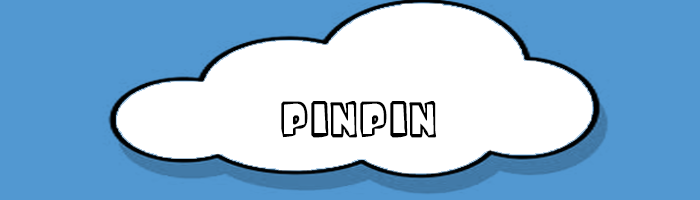
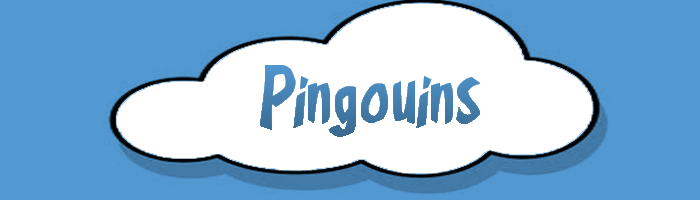
Encadrement choix partie perso, BONUS : couleur en fct du j. Code : ROUMAIN STYLE

Changed region(s): [[0.36, 0.3, 0.69, 0.69]]

diff --git a/trunk/Interface/Graphique/SelectionJoueurs.java b/trunk/Interface/Graphique/SelectionJoueurs.java
@@ -64,33 +64,37 @@ public class SelectionJoueurs{
         names.setVisible(false);
         buttons.setLayout(new GridLayout(0,3));
 	double width =  buttons.getSize().getWidth(), height = buttons.getSize().getHeight();
-	JButton b1 = null;
+	JButton b1;
 	if (this.menu == 1)
-		b1 = new JButton(new ImageIcon("Interface/Graphique/Img/joueurHumain1.png"));
-	else if (this.menu == 2)
-		b1 = new JButton(new ImageIcon("Interface/Graphique/Img/joueurHumain2.png"));
-	else if (this.menu == 3)
-		b1 = new JButton(new ImageIcon("Interface/Graphique/Img/joueurHumain3.png"));
-	else if (this.menu == 4)
-		b1 = new JButton(new ImageIcon("Interface/Graphique/Img/joueurHumain4.png"));		
+		b1 = new JButton(new ImageIcon("Interface/Graphique/Img/selectedHumain1.png"));
+	else
+		b1 = new JButton(new ImageIcon("Interface/Graphique/Img/joueurHumain"+menu+".png"));
 	b1.setBorder(BorderFactory.createEmptyBorder());
 	b1.setContentAreaFilled(false);
 	b1.setOpaque(false);	
         b1.setBorderPainted(false); 
-	JButton b2 = new JButton(new ImageIcon("Interface/Graphique/Img/joueurOrdinateur.png"));
+	JButton b2;
+	if (this.menu == 2)
+		b2 = new JButton(new ImageIcon("Interface/Graphique/Img/selected"+"Ordinateur2.png"));
+	else
+		b2 = new JButton(new ImageIcon("Interface/Graphique/Img/joueurOrdinateur.png"));		
 	b2.setBorder(BorderFactory.createEmptyBorder());
 	b2.setContentAreaFilled(false);
 	b2.setOpaque(false);	
-	JButton b3 = new JButton(new ImageIcon("Interface/Graphique/Img/aucun.png"));
+	JButton b3;
+	if (this.menu == 3 || menu == 4)
+		b3 = new JButton(new ImageIcon("Interface/Graphique/Img/selectedAucun"+menu+".png"));
+	else 
+		b3 = new JButton(new ImageIcon("Interface/Graphique/Img/aucun.png"));
 	b3.setBorder(BorderFactory.createEmptyBorder());
 	b3.setContentAreaFilled(false);
 	b3.setOpaque(false);	
 
         this.partage = new SelectionJoueur(menu, names, diff);
 
-        b1.addActionListener(new EcouteurBoutonMenuPerso(this, partage, 1));
-        b2.addActionListener(new EcouteurBoutonMenuPerso(this, partage, 2));
-        b3.addActionListener(new EcouteurBoutonMenuPerso(this, partage, 3));
+        b1.addActionListener(new EcouteurBoutonMenuPerso(this, partage, 1, b1, b2, b3, menu));
+        b2.addActionListener(new EcouteurBoutonMenuPerso(this, partage, 2, b1, b2, b3, menu));
+        b3.addActionListener(new EcouteurBoutonMenuPerso(this, partage, 3, b1, b2, b3, menu));
 
 	JPanel pan1 = new JPanel();
 	pan1.add(b1,BorderLayout.CENTER);

diff --git a/trunk/Interface/Graphique/EcouteurBoutonMenuPerso.java b/trunk/Interface/Graphique/EcouteurBoutonMenuPerso.java
@@ -10,27 +10,43 @@ import Joueurs.*;
 
 
 public class EcouteurBoutonMenuPerso implements ActionListener{
-    SelectionJoueurs J;
-    int but;
-    SelectionJoueur type;
+	SelectionJoueurs J;
+	int but;
+	SelectionJoueur type;
+	JButton b1;
+	JButton b2;
+	JButton b3;
+	int menu;
 
-    public EcouteurBoutonMenuPerso(SelectionJoueurs J, SelectionJoueur type, int but)
+	public EcouteurBoutonMenuPerso(SelectionJoueurs J, SelectionJoueur type, int but, JButton b1, JButton b2, JButton b3, int menu)
     {
         this.J = J;
         this.but = but;
         this.type = type;
+	this.b1 = b1;
+	this.b2 = b2;
+	this.b3 = b3;
+	this.menu = menu;
     }
 
-    public void actionPerformed(ActionEvent e)
-    {
-        if (but == 1)
-            type.setJoueur();
-        else if (but == 2)
-            type.setOrdinateur();
-        else if (but == 3)
-            type.setAucun();
-
-        J.selectionDifficulte(type);	
-        
-    }
+	public void actionPerformed(ActionEvent e) {
+		if (but == 1) {
+			type.setJoueur();
+			b1.setIcon(new ImageIcon("Interface/Graphique/Img/selectedHumain"+menu+".png"));
+			b2.setIcon(new ImageIcon("Interface/Graphique/Img/joueurOrdinateur.png"));
+			b3.setIcon(new ImageIcon("Interface/Graphique/Img/aucun.png"));
+		} else if (but == 2) {
+			type.setOrdinateur();
+			b1.setIcon(new ImageIcon("Interface/Graphique/Img/joueurHumain"+menu+".png"));
+			b2.setIcon(new ImageIcon("Interface/Graphique/Img/selectedOrdinateur"+menu+".png"));
+			b3.setIcon(new ImageIcon("Interface/Graphique/Img/aucun.png"));
+		} else if (but == 3) {
+			type.setAucun();
+			b1.setIcon(new ImageIcon("Interface/Graphique/Img/joueurHumain"+menu+".png"));
+			b2.setIcon(new ImageIcon("Interface/Graphique/Img/joueurOrdinateur.png"));
+			b3.setIcon(new ImageIcon("Interface/Graphique/Img/selectedAucun"+menu+".png"));
+		}
+		J.selectionDifficulte(type);	
+		
+	}
 }

diff --git a/trunk/Interface/Graphique/MenuPrincipal.java b/trunk/Interface/Graphique/MenuPrincipal.java
@@ -194,16 +194,17 @@ public class MenuPrincipal{
 		}
 		else if(s.compareTo("Options") == 0){
 
-			ban = new Banniere("options.png",frame);
+			ban = new Banniere("nuageOptions.png",frame);
 			ban.setPreferredSize(new Dimension(700, (500)/4));
 			Menu.setLayout(new GridLayout( 2 , 1));
 			addBouton(Menu, "son.png");
 			addBouton(Menu, "reglesDuJeu.png");
 			addBouton(cellGauche,"retour.png");
+			frame.repaint();
 		}
 		else if(s.compareTo("Son") == 0){
 
-			ban = new Banniere("options.png",frame);
+			ban = new Banniere("nuageSon.png",frame);
 			ban.setPreferredSize(new Dimension(700, (500)/4));
 
 			if(!inter.d.getMusic()){

diff --git a/trunk/Interface/Graphique/InterfaceGraphique.java b/trunk/Interface/Graphique/InterfaceGraphique.java
@@ -77,7 +77,7 @@ public class InterfaceGraphique extends Interface
 		Dimension Dim = new Dimension(700,500);
 		
 		//creation de la fenetre principale
-		frame = new JFrame("pinpin le pingouin");
+		frame = new JFrame("Pingouins");
 		frame.setMinimumSize(new Dimension(700,500));
 		MenuPrincipal m = new MenuPrincipal(frame, this,"backgroundIce2.png");
 		m.setBoutons("demarrage");

diff --git a/trunk/Interface/Graphique/Charger.java b/trunk/Interface/Graphique/Charger.java
@@ -38,7 +38,7 @@ public class Charger {
 		GridBagConstraints gbc = new GridBagConstraints();
 		//On crée nos différents conteneurs
 		//Ligne 1
-		ban = new Banniere("pinpin.png",frame);
+		ban = new Banniere("nuageCharger.png",frame);
 		ban.setPreferredSize(new Dimension(700, (500)/4));
 		//------------------------------------------------------
 		//

diff --git a/trunk/Joueurs/JoueurCPURandomizable.java b/trunk/Joueurs/JoueurCPURandomizable.java
@@ -31,6 +31,7 @@ public class JoueurCPURandomizable extends Joueur
 				caseRestantes += couple.getY();	
 			liste.add(new Couple(pingouins[i].getX(), pingouins[i].getY()));
 		}
+		System.out.println("Cases restantes : " + caseRestantes);
 		Random r = new Random();
 		int max = Integer.MIN_VALUE;
 		ArrayList<Coup> chemin = new ArrayList<Coup>();
